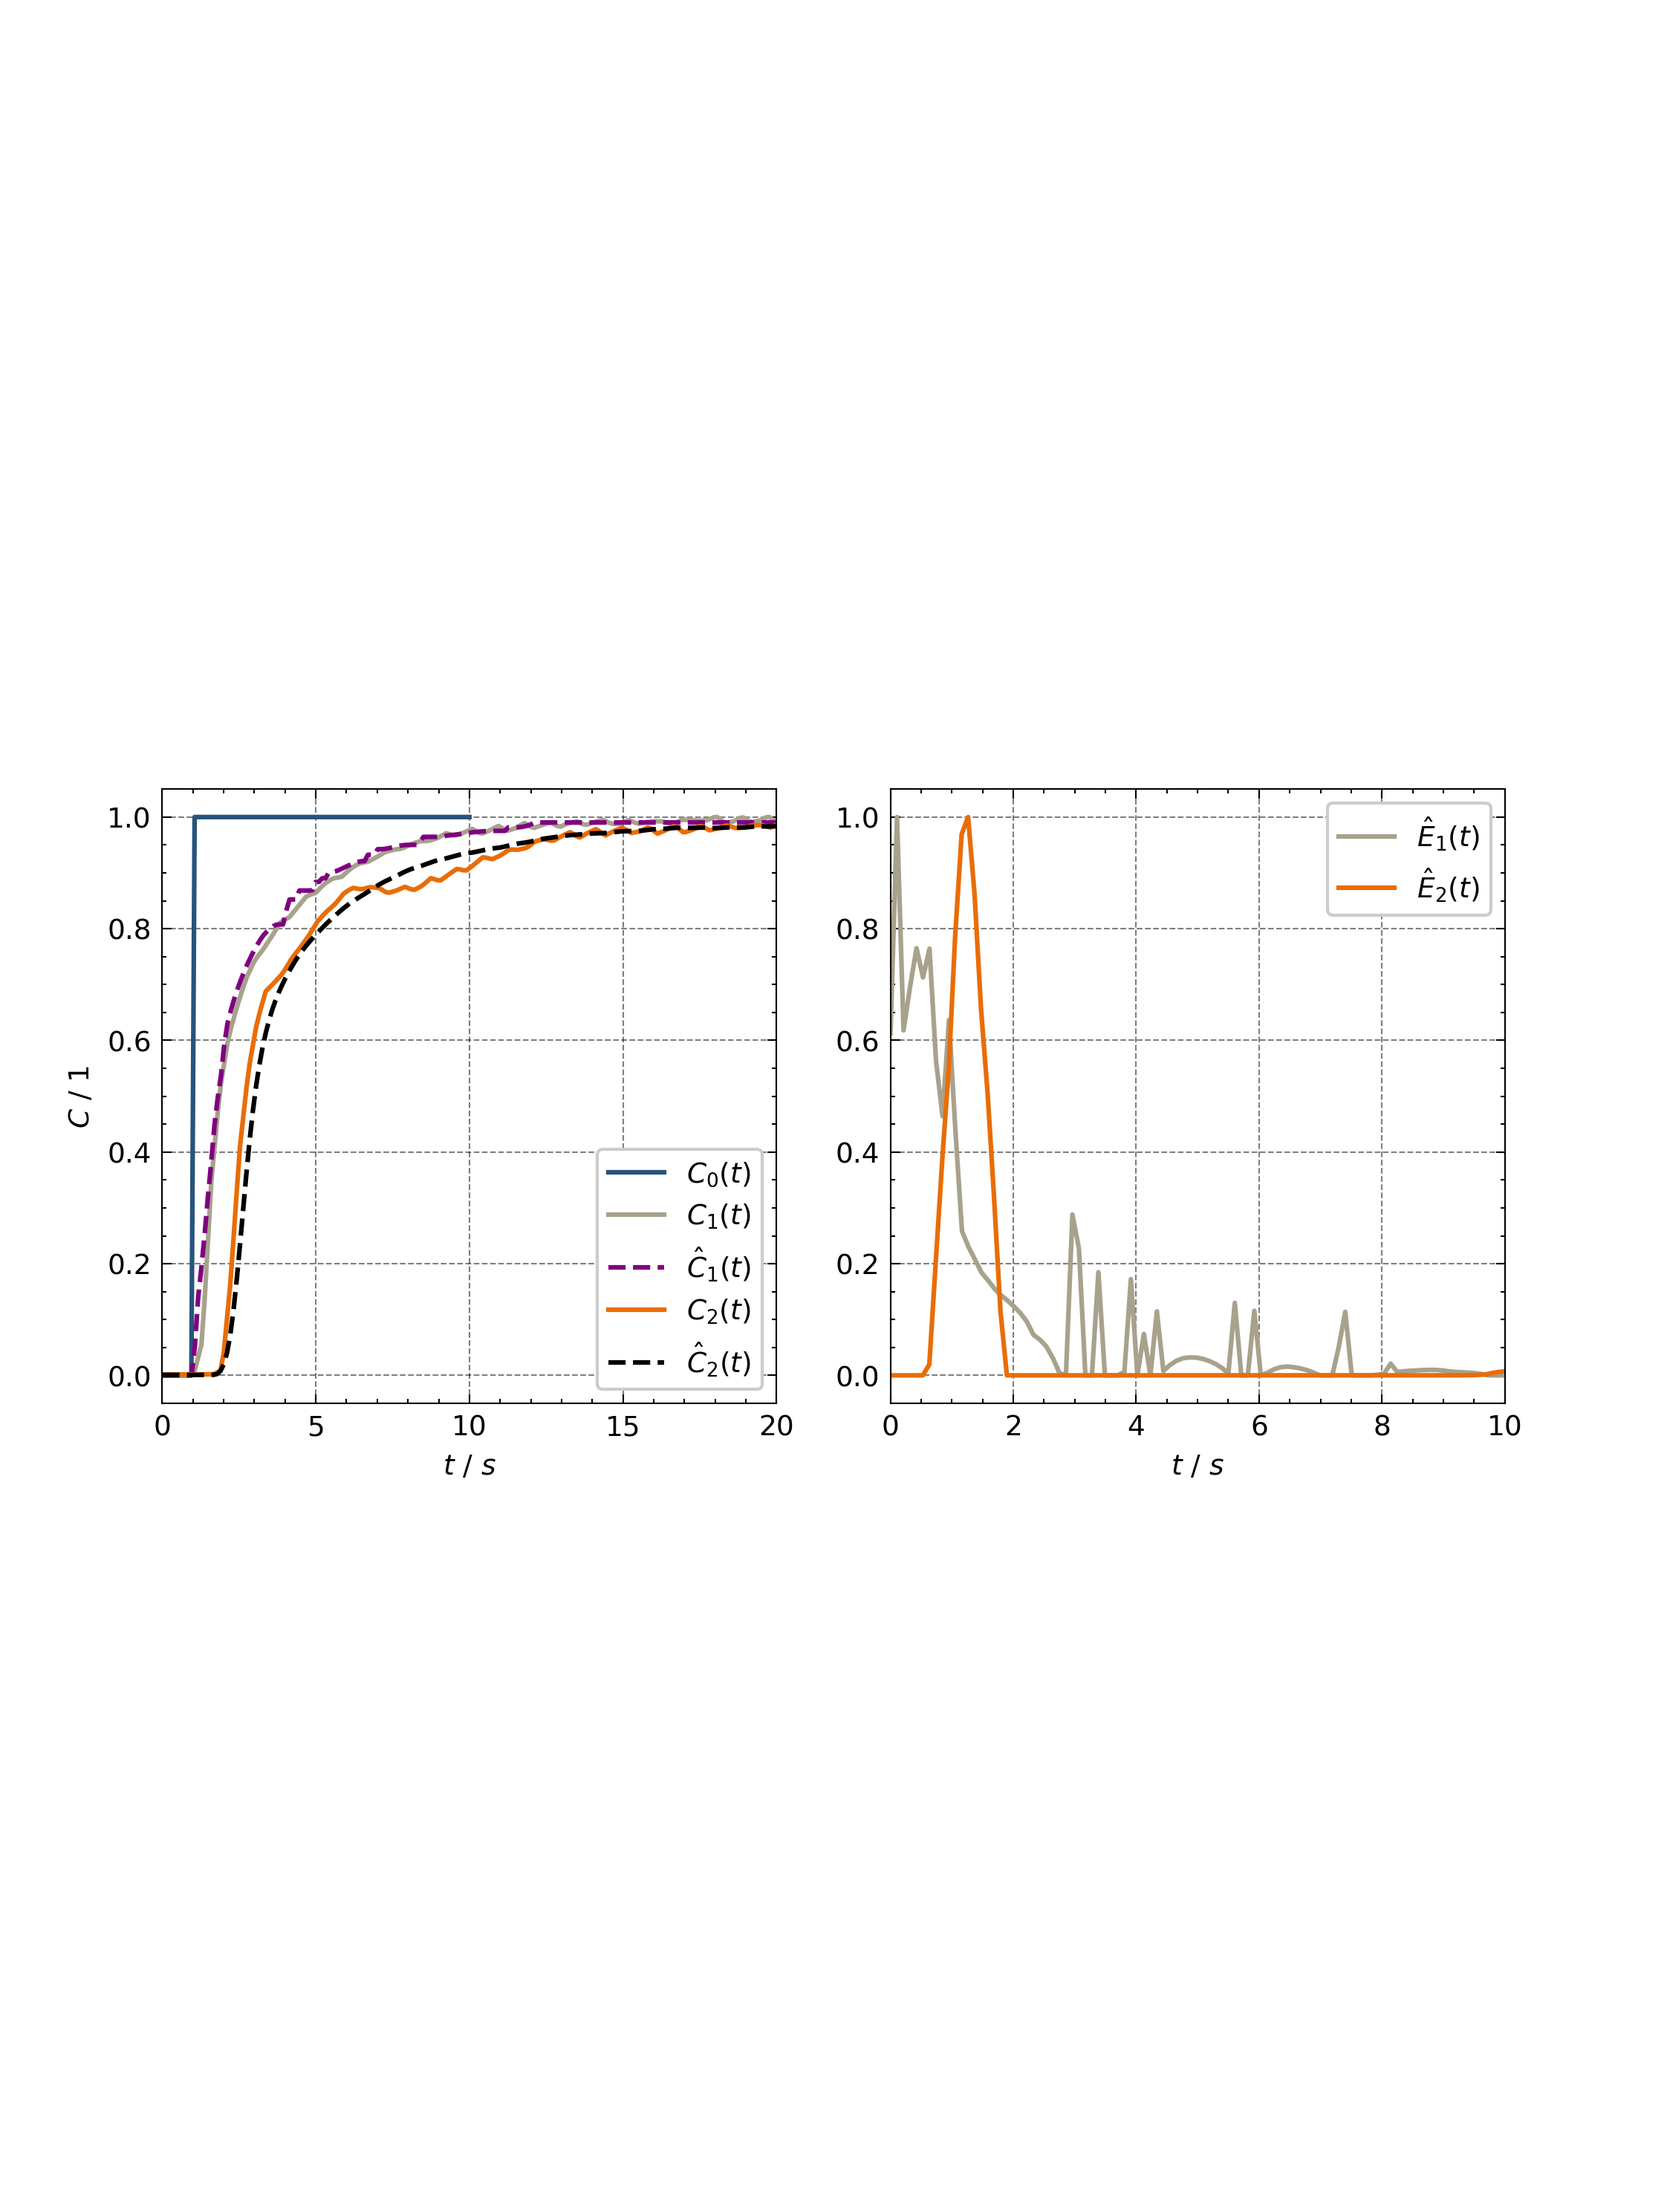
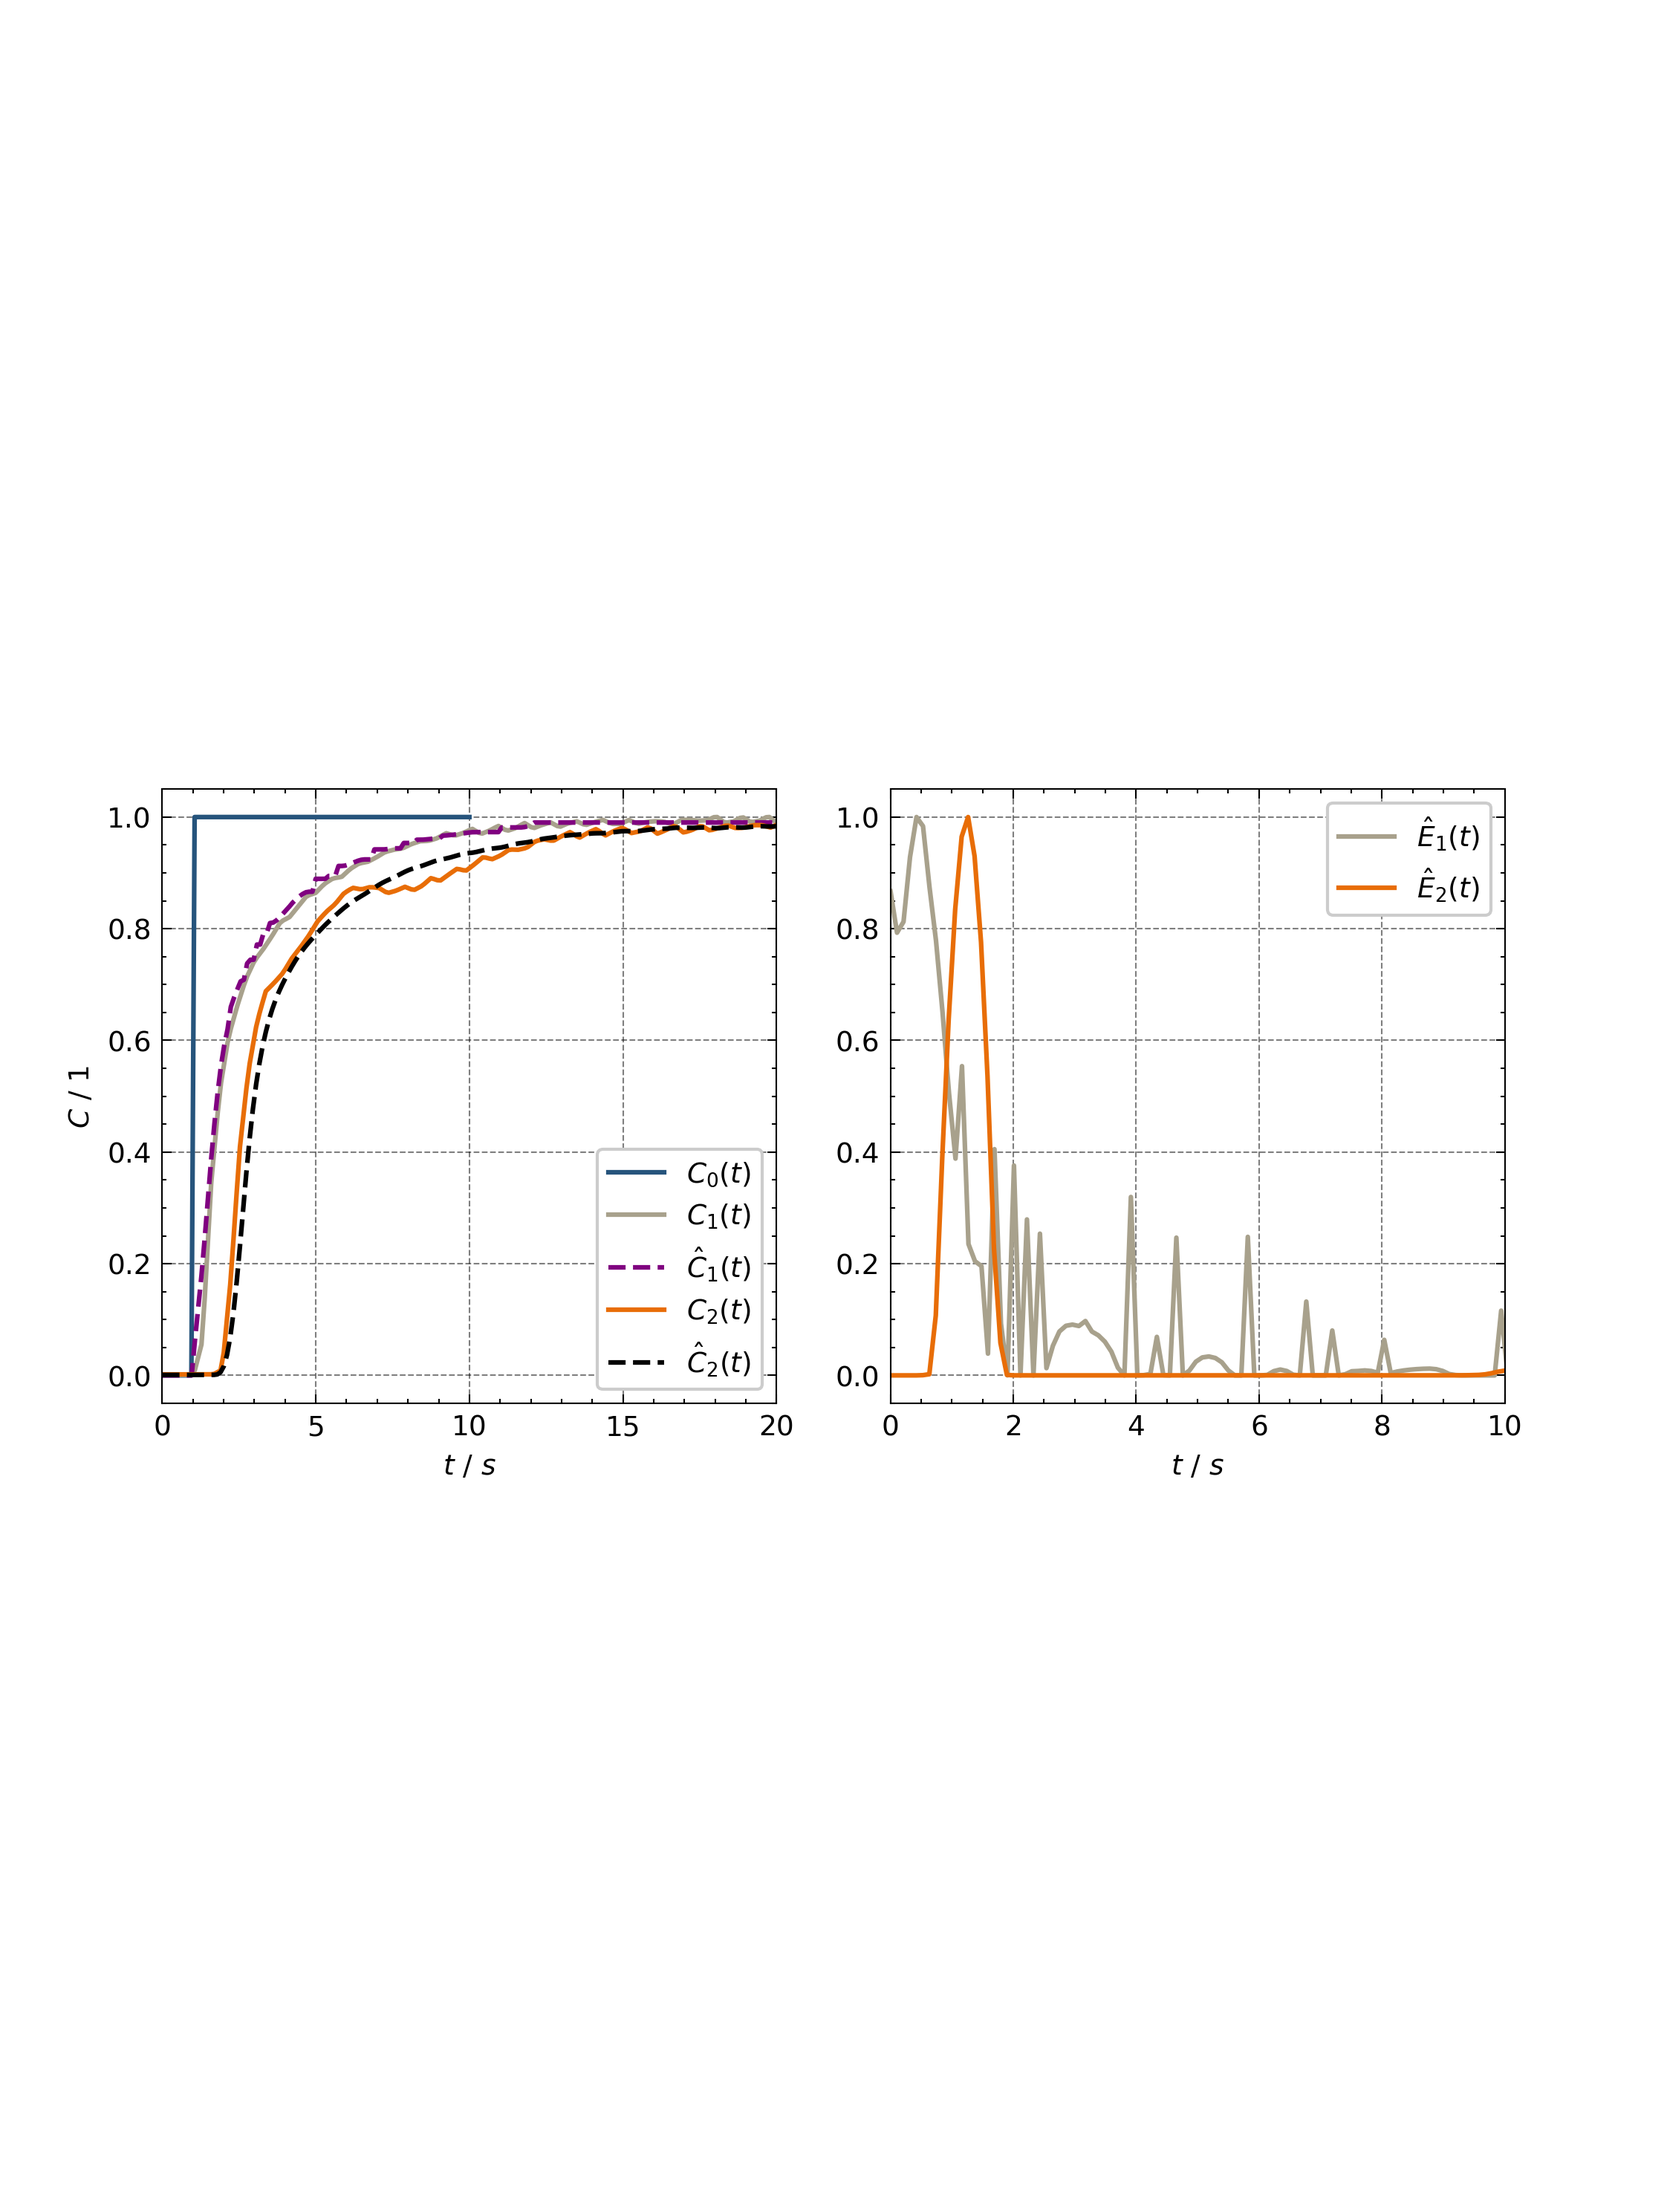
plot

Changed region(s): [[0.5303, 0.374, 0.8111, 0.6233], [0.8734, 0.5921, 0.9046, 0.6233], [0.156, 0.4051, 0.1872, 0.4363]]

diff --git a/Experiments/Preliminary/2_nd_Layer_exp/0001/H_085/Convolution_script_exp_085.py b/Experiments/Preliminary/2_nd_Layer_exp/0001/H_085/Convolution_script_exp_085.py
@@ -32,10 +32,10 @@ from ICIW_Plots import make_rect_ax
 if wandb.run is not None:
     wandb.finish()
 
-learning_rate_2=1e-1   
+learning_rate_2=10   
 #save_dir=r"D:\Tuana\nRTD\Experiments\Preliminary\2_nd_Layer_exp\0001\H_085"
 
-learning_rate=1e-2
+learning_rate=1e-3
 n_in_1, n_out_1, n_out_2, n_e_1, n_e_2 = sp.symbols("n_in_1 n_out_1 n_out_2 n_e_1 n_e_2", positive=True, real=True)
 t_1, t_lam, t_adl, t_e_1, t_e_2 = sp.symbols("t_1, t_lam, t_adl, t_e_1, t_e_2", positive=True, real=True)
 equations = [
@@ -73,10 +73,10 @@ sub_dict = {
     n_out_1: 200,
     # n_e_1,
     # n_e_2,
-    t_1:10,
+    t_1:14,
     # t_lam,
     t_adl:51,
-    t_e_1:11,
+    t_e_1:13,
     #t_e_2,
 }
 result_dict = {}
@@ -119,15 +119,18 @@ print("t_e_2 =", t_e_2)
 c_conv_results = {}
 n_disc = n_in_1
 t_input = torch.linspace(0, t_1, n_1_in)
-c_in = torch.zeros((20, 1, n_1_in))
+c_in = torch.zeros((16, 1, n_1_in))
 c_in[::2, :, t_input > 1] = 1
 c_in[1::2, :, t_input < 1] = 1
 file_numbers = range(1, 21)
 c_out_list = []
 t_conv_list = []
+file_numbers = range(1, 21)
+excluded_files = {12, 13, 6, 7}
+filtered_file_numbers = [num for num in file_numbers if num not in excluded_files]
 
 
-for i, file_num in enumerate(file_numbers):
+for i, file_num in enumerate(filtered_file_numbers):
     # t_conv_path = f"/Users/tuanaoyuncu/Documents/GitHub/nRTD/Data/0001/C_001/H_085_C1/S_009_C1/TOA_MGA_20231020_009_{file_num:06d}_t_processed_2nlayer_conc.npy"
     # c_out_path = f"/Users/tuanaoyuncu/Documents/GitHub/nRTD/Data/0001/C_001/H_085_C1/S_009_C1/TOA_MGA_20231020_009_{file_num:06d}_x_processed_2nlayer_conc.npy"
     t_conv_path= rf"D:\Tuana\nRTD\Data\0001\C_001\H_085_C1\S_009_C1\TOA_MGA_20231020_009_{file_num:06d}_t_processed_2nlayer_conc.npy"
@@ -247,11 +250,11 @@ print(c_out.shape)
 print("c_in",c_out.shape)
 print(E.shape)
 
-for i, file_num in enumerate(file_numbers):
+for i, file_num in enumerate(filtered_file_numbers):
     # t_conv_path_2 = f"/Users/tuanaoyuncu/Documents/GitHub/nRTD/Data/0001/C_002/H_085_C2/S_012_C2/TOA_MGA_20231020_012_{file_num:06d}_t_processed_conc.npy"
     # c_out_path_2 = f"/Users/tuanaoyuncu/Documents/GitHub/nRTD/Data/0001/C_002/H_085_C2/S_012_C2/TOA_MGA_20231020_012_{file_num:06d}_x_processed_conc.npy"
-    t_conv_path_2= rf"D:\Tuana\nRTD\Data\0001\C_002\H_085_C2\S_012_C2\TOA_MGA_20231020_012_{file_num:06d}_t_processed_conc.npy"
-    c_out_path_2 =rf"D:\Tuana\nRTD\Data\0001\C_002\H_085_C2\S_012_C2\TOA_MGA_20231020_012_{file_num:06d}_x_processed_conc.npy"
+    t_conv_path_2= rf"D:\Tuana\nRTD\Data\0001\C_002\H_085_C2\S_012_C2\TOA_MGA_20231020_012_{file_num:06d}_t_processed_conc_377.npy"
+    c_out_path_2 =rf"D:\Tuana\nRTD\Data\0001\C_002\H_085_C2\S_012_C2\TOA_MGA_20231020_012_{file_num:06d}_x_processed_conc_377.npy"
 
     print(f"Processing files: {t_conv_path_2}, {c_out_path_2}")
 
@@ -366,7 +369,7 @@ E_learned_1 = model.net.E[0] if isinstance(model.net.E[0], np.ndarray) else mode
 E_learned_2 = model_2.net.E[0] if isinstance(model_2.net.E[0], np.ndarray) else model_2.net.E[0].numpy()
 t_learned_1 = np.linspace(0, t_e, len(E_learned_1))
 t_learned_2 = np.linspace(0, t_e_2, len(E_learned_2))
-j=8
+j=2
 base_dir = r'D:\Tuana\nRTD\Experiments\Preliminary\2_nd_Layer_exp'
 #base_dir="/Users/tuanaoyuncu/Documents/GitHub/nRTD/Experiments/Preliminary/2_nd_Layer_exp"
 plt.style.use("ICIWstyle")
@@ -424,7 +427,7 @@ axs[0, 0].plot(
 
 axs[0, 1].plot(
     t_learned_1,  # Ensure this is also 1D
-    E_learned_1/E_learned_1.max(), label=r"$\hat{E}_1(t)$", color=ICIWcolors.DRAB,
+    E_learned_1/E_learned_1.max(), label=r"$\hat{E}_1(t)$", color="purple",
 )
 axs[0, 1].plot(
     t_learned_2,  # Ensure this is also 1D

diff --git a/Experiments/Preliminary/2_nd_Layer_exp/0001/H_185/Convolution_script_exp_185.py b/Experiments/Preliminary/2_nd_Layer_exp/0001/H_185/Convolution_script_exp_185.py
@@ -118,10 +118,10 @@ t_conv_list = []
 
 
 for i, file_num in enumerate(file_numbers):
-    t_conv_path = f"/Users/tuanaoyuncu/Documents/GitHub/nRTD/Data/0001/C_001/H_185_C1/S_007_C1_001/TOA_MGA_20231013_007_{file_num:06d}_t_processed.npy"
-    c_out_path = f"/Users/tuanaoyuncu/Documents/GitHub/nRTD/Data/0001/C_001/H_185_C1/S_007_C1_001/TOA_MGA_20231013_007_{file_num:06d}_x_processed.npy"
-    #t_conv_path= r"D:\Tuana\nRTD\Experiments\Data\0001\C_001\H_185_C1\S_007_C1_001\TOA_MGA_20231013_007_{file_num:06d}_t_processed_2nlayer_200.npy"
-    #c_out_path =r"D:\Tuana\nRTD\Experiments\Data\0001\C_001\H_138_C1\S_007_C1_001\TOA_MGA_20231013_007_{file_num:06d}_x_processed_2nlayer_200.npy"
+    #t_conv_path = f"/Users/tuanaoyuncu/Documents/GitHub/nRTD/Data/0001/C_001/H_185_C1/S_007_C1_001/TOA_MGA_20231013_007_{file_num:06d}_t_processed.npy"
+    #c_out_path = f"/Users/tuanaoyuncu/Documents/GitHub/nRTD/Data/0001/C_001/H_185_C1/S_007_C1_001/TOA_MGA_20231013_007_{file_num:06d}_x_processed.npy"
+    t_conv_path= r"D:\Tuana\nRTD\Data\0001\C_001\H_185_C1\S_007_C1_001\TOA_MGA_20231013_007_{file_num:06d}_t_processed.npy"
+    c_out_path =r"D:\Tuana\nRT\Data\0001\C_001\H_185_C1\S_007_C1_001\TOA_MGA_20231013_007_{file_num:06d}_x_processed.npy"
     
     print(f"Processing files: {t_conv_path}, {c_out_path}")
 
